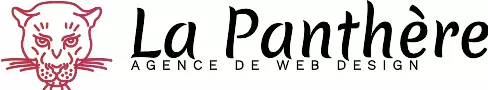
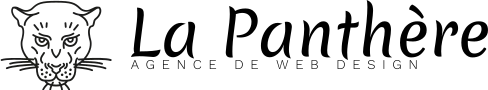
3eme modification 9 novembre

diff --git a/contact.html b/contact.html
@@ -5,7 +5,7 @@
     <meta name="keywords" content="seo, google, site web, site internet, agence design lyon, agence design, agence design,agence design,agence design,agence design,agence design,agence design,agence design,agence design">
     <meta name="description" content="La Panthere-agence de web design basee a lyon">
     <meta name="viewport" content="width=device-width, initial-scale=1.0, viewport-fit=cover">
-    <link rel="shortcut icon" type="image/png" href="favicon.jpg">
+    <link rel="shortcut icon" type="image/png" href="favicon.webp">
     
 	<link rel="stylesheet" type="text/css" href="./css/bootstrap-min.css">
 	<link rel="stylesheet" type="text/css" href="style-min.css">
@@ -35,7 +35,7 @@
 	<div class="container bloc-sm">
 		<nav class="navbar row">
 			<div class="navbar-header">
-				<a class="navbar-brand" href="index.html"><img src="img/agence-la-panthere-monochrome.svg" alt="atlanta web design logo" height="40" /></a>
+				<a class="navbar-brand" href="index.html"><img src="img/agence-la-panthere-monochrome.webp" alt="atlanta web design logo" height="40" /></a>
 				<button id="nav-toggle" type="button" class="ui-navbar-toggle navbar-toggle" data-toggle="collapse" data-target=".navbar-1">
 					<span class="sr-only">Toggle navigation</span><span class="icon-bar"></span><span class="icon-bar"></span><span class="icon-bar"></span>
 				</button>

diff --git a/index.html b/index.html
@@ -62,7 +62,7 @@
 	<div class="container bloc-lg">
 		<div class="row tight-width-whitespace">
 			<div class="col-sm-12">
-				<img src="img/logo-1.webp" class="center-block image-resize-mode" width="100" alt="Agence La Panthère, agence web paris, création logo lyon" />
+				<img src="img/logo-1-1.webp" class="center-block image-resize-mode" width="100" alt="Agence La Panthère, agence web paris, création logo lyon" />
 				<h1 class="text-center hero-bloc-text tc-white ">
 					Agence La Panthère
 				</h1>
